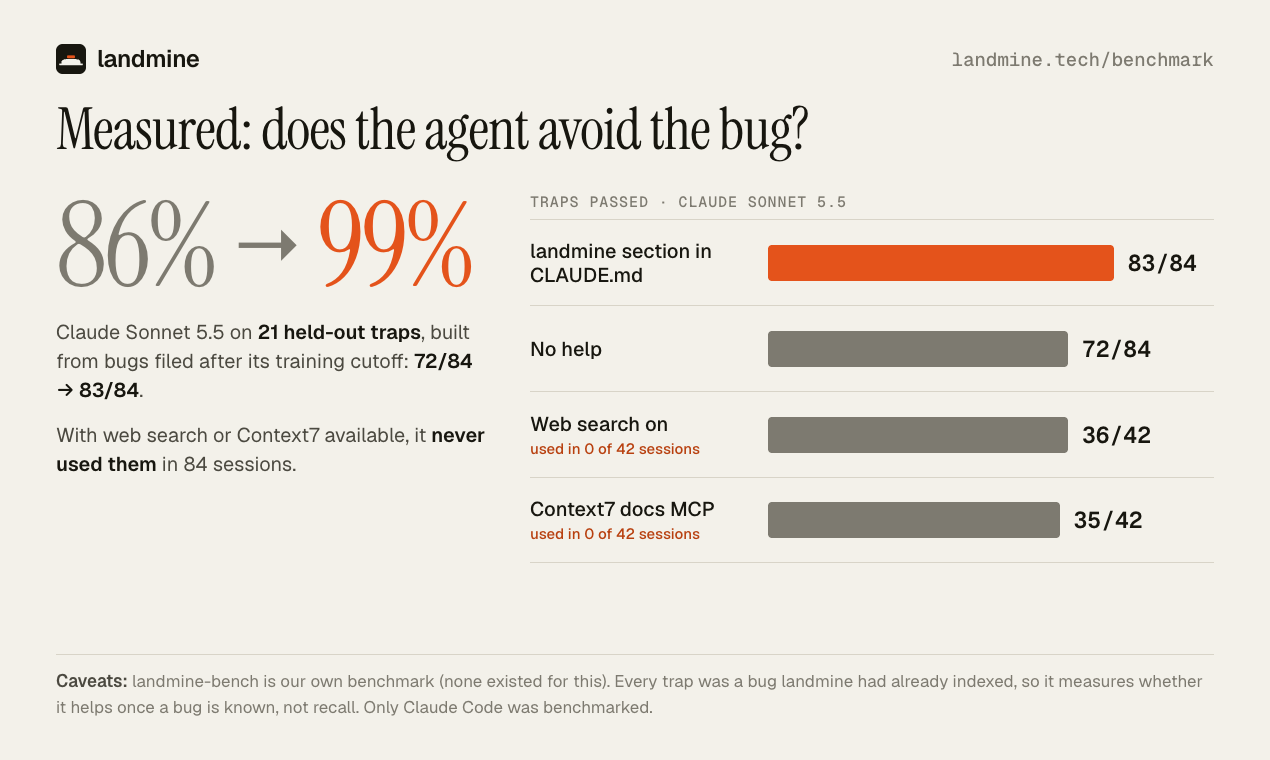
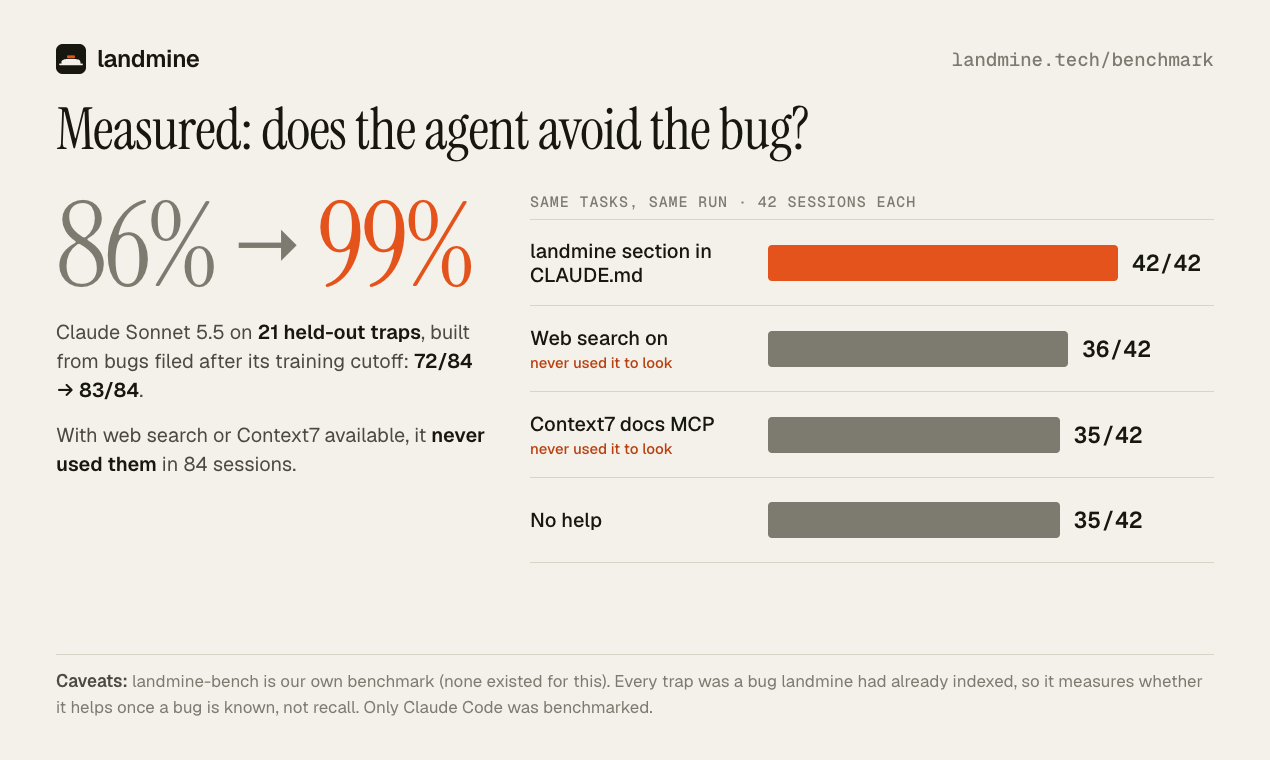
PH kit: benchmark chart back to the same-run comparison (42/42, 36/42, 35/42, 35/42)
The previous chart put 83/84 and 72/84 (all four seeds) next to 36/42 and 35/42 (seeds 1-2 only).
The video goes back to its first export, which already used the same-run chart; the X, LinkedIn
and Reddit cuts are rebuilt from it (local only, gitignored).

diff --git a/docs/launch/producthunt/README.md b/docs/launch/producthunt/README.md
@@ -19,21 +19,21 @@ The folder is about 48 MB, mostly video. Think twice before committing the MP4s 
 | `gallery/03-real-scan-output.png` | 1270×760 | | 150 KB | PH gallery 3: real `npx landmines scan` output. |
 | `gallery/04-agents-md-claude-md.png` | 1270×760 | | 152 KB | PH gallery 4: the known-bugs section in CLAUDE.md / AGENTS.md. |
 | `gallery/05-mcp-in-claude-code.png` | 1270×760 | | 162 KB | PH gallery 5: the hosted MCP in a real Claude Code session (vaul#492). |
-| `gallery/06-benchmark.png` | 1270×760 | | 118 KB | PH gallery 6: 86% → 99% chart with the caveats. |
+| `gallery/06-benchmark.png` | 1270×760 | | 116 KB | PH gallery 6: 86% → 99%, plus the same-run comparison (42/42, 36/42, 35/42, 35/42) and the caveats. |
 | `gallery/07-28-repos-median-395.png` | 1270×760 | | 111 KB | PH gallery 7: 28 repos, median 395, 30/40 hand-checked. |
 | `gallery/08-install.png` | 1270×760 | | 73 KB | PH gallery 8: install in one command. |
 | `thumbnail/thumbnail-240.png` | 240×240 | | 8 KB | PH thumbnail (static logo); logo for DevHunt, Uneed, Peerlist. |
 | `thumbnail/thumbnail-240.gif` | 240×240, 25 fps, loops | 2 s | 121 KB | PH animated thumbnail (the trigger pulses). Under PH's 3 MB. |
-| `platforms/x-landmine-16x9.mp4` | 1920×1080 | 68 s | 13.8 MB | X video (under 2:20). −16 LUFS. |
+| `platforms/x-landmine-16x9.mp4` | 1920×1080 | 68 s | 15.2 MB | X video (under 2:20). −16 LUFS. |
 | `platforms/x-card-1-hook.png` | 1200×675 | | 101 KB | X card: the hook. |
 | `platforms/x-card-2-benchmark.png` | 1200×675 | | 92 KB | X card: 86% → 99%, never used web search or Context7. |
 | `platforms/x-card-3-28-repos.png` | 1200×675 | | 75 KB | X card: median 395 across 28 repos, 30/40. |
 | `platforms/x-card-4-install.png` | 1200×675 | | 67 KB | X card: install. |
-| `platforms/linkedin-landmine-1x1.mp4` | 1080×1080 | 68 s | 4.4 MB | LinkedIn feed video (square). −16 LUFS. |
+| `platforms/linkedin-landmine-1x1.mp4` | 1080×1080 | 68 s | 3.1 MB | LinkedIn feed video (square). −16 LUFS. |
 | `platforms/linkedin-1200x627.png` | 1200×627 | | 85 KB | LinkedIn image / link post. |
 | `platforms/linkedin-benchmark-1200x627.png` | 1200×627 | | 92 KB | LinkedIn image post: the benchmark. |
 | `platforms/reddit-hook-session.gif` | 1280×720, 10 fps | 12.6 s | 11.9 MB | Reddit GIF (under 20 MB): the hook session. Also for dev.to. |
-| `platforms/reddit-landmine-720p.mp4` | 1280×720 | 68 s | 3.7 MB | Reddit video (the full launch video, smaller). |
+| `platforms/reddit-landmine-720p.mp4` | 1280×720 | 68 s | 2.9 MB | Reddit video (the full launch video, smaller). |
 | `platforms/og-1200x630.png` | 1200×630 | | 85 KB | OG / Twitter card image; Peerlist cover. |
 | `platforms/github-social-preview-1280x640.png` | 1280×640 | | 84 KB | GitHub repo social preview. |
 | `platforms/devto-hashnode-cover-1000x420.png` | 1000×420 | | 66 KB | dev.to / Hashnode article cover. |

diff --git a/docs/launch/producthunt/platforms.md b/docs/launch/producthunt/platforms.md
@@ -12,7 +12,7 @@ Platform limits below are as of this writing; check the upload form if something
 ## X / Twitter
 
 Files:
-- `x-landmine-16x9.mp4`: 1920×1080, 68 s (under the 2:20 limit), 13.8 MB, loudness −16 LUFS. Attach to post 1.
+- `x-landmine-16x9.mp4`: 1920×1080, 68 s (under the 2:20 limit), 15.2 MB, loudness −16 LUFS. Attach to post 1.
 - `x-card-1-hook.png`, `x-card-2-benchmark.png`, `x-card-3-28-repos.png`, `x-card-4-install.png`: 1200×675 each.
 
 Thread:
@@ -36,7 +36,7 @@ Thread:
 ## LinkedIn
 
 Files:
-- `linkedin-landmine-1x1.mp4`: 1080×1080, 68 s, 4.4 MB, −16 LUFS. The 16:9 video in a square frame with a header
+- `linkedin-landmine-1x1.mp4`: 1080×1080, 68 s, 3.1 MB, −16 LUFS. The 16:9 video in a square frame with a header
   and footer, for the feed.
 - `linkedin-1200x627.png` (product) and `linkedin-benchmark-1200x627.png` (the number): link or image posts.
 
@@ -57,7 +57,7 @@ Post:
 Files:
 - `reddit-hook-session.gif`: 1280×720, 12.6 s, 10 fps, 11.9 MB (Reddit's image/GIF limit is 20 MB). The real Claude
   Code session: the hook pauses the edit and the agent switches to its own `pg.Pool`. Autoplays in the feed.
-- `reddit-landmine-720p.mp4`: 1280×720, 68 s, 3.7 MB (video limit 1 GB / 15 min). The full launch video.
+- `reddit-landmine-720p.mp4`: 1280×720, 68 s, 2.9 MB (video limit 1 GB / 15 min). The full launch video.
 
 Post the GIF (or the MP4) natively and put the link in the text, not the title.
 
